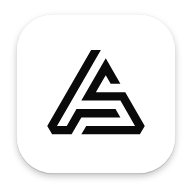
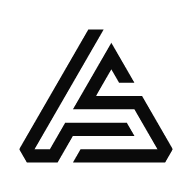
Changes from the private repository:
- Round only the corners of the Client's launcher icons
  - Name the file types the share target takes and label the ...

GitOrigin-RevId: 90955a155ec88d12d0a5c7318b795f9e3e04c768

Changed region(s): [[0.0625, 0.125, 0.9375, 0.9375]]

diff --git a/apps/client/src/app-icons.test.ts b/apps/client/src/app-icons.test.ts
@@ -67,20 +67,36 @@ function cornersAndCentre({ width, height, alphaAt }: Pixels) {
 
 describe('app icons', () => {
     // A desktop launcher (GNOME, Windows, macOS) shows a `purpose: any` icon as drawn, with no
-    // mask, so a full-bleed square shows as a square with sharp corners. These icons carry their
-    // own rounded tile on a transparent canvas instead.
+    // mask, so a full-bleed square shows as a square with sharp corners. These icons are the same
+    // full-bleed white tile with only its corners rounded off: they fill the canvas, so they sit at
+    // the same size as other apps' icons, and Android can still cut one to a circle without any
+    // edge or transparent margin showing inside it.
     const launcherIcons = manifest.icons.filter((icon) => (icon.purpose ?? 'any').split(' ').includes('any'))
 
     it('declares a 192px and a 512px launcher icon', () => {
         expect(launcherIcons.map((icon) => icon.sizes).sort()).toEqual(['192x192', '512x512'])
     })
 
-    it.each(launcherIcons.map((icon) => [icon.src, icon] as const))('%s is a rounded tile: clear corners, opaque middle', (_src, icon) => {
+    it.each(launcherIcons.map((icon) => [icon.src, icon] as const))('%s has clear corners and is opaque everywhere else', (_src, icon) => {
         const pixels = decodePng(fromStatic(icon.src.replace(/^\//, '')))
-        expect(`${pixels.width}x${pixels.height}`).toBe(icon.sizes)
+        const { width, height, alphaAt } = pixels
+        expect(`${width}x${height}`).toBe(icon.sizes)
         const { corners, centre } = cornersAndCentre(pixels)
         expect(corners).toEqual([0, 0, 0, 0])
         expect(centre).toBe(255)
+        // The tile reaches every edge: no margin, so the icon is not drawn smaller than its neighbours.
+        const midEdges = [alphaAt(width >> 1, 0), alphaAt(width >> 1, height - 1), alphaAt(0, height >> 1), alphaAt(width - 1, height >> 1)]
+        expect(midEdges).toEqual([255, 255, 255, 255])
+        // Every pixel of the inscribed circle is opaque, so a circular crop shows no edge at all.
+        const radius = width / 2
+        let transparentInCircle = 0
+        for (let y = 0; y < height; y++) {
+            for (let x = 0; x < width; x++) {
+                const inside = Math.hypot(x + 0.5 - radius, y + 0.5 - radius) < radius - 1
+                if (inside && alphaAt(x, y) !== 255) transparentInCircle++
+            }
+        }
+        expect(transparentInCircle).toBe(0)
     })
 
     // Android cuts a maskable icon to its own shape, and iOS rounds the apple-touch-icon itself and

diff --git a/apps/client/src/lib/document/view/QuickNoteBox.svelte b/apps/client/src/lib/document/view/QuickNoteBox.svelte
@@ -329,7 +329,7 @@
     </ul>
 
     {#if !readonly}
-        <div class="flex items-center gap-1.5 border-t border-(--gk-border-soft) px-1.5 py-1">
+        <div class="flex flex-wrap items-center gap-1.5 border-t border-(--gk-border-soft) px-1.5 py-1.5">
             <button
                 type="button"
                 onclick={link}
@@ -337,9 +337,10 @@
                 data-testid="{testid}-link"
                 aria-label="Link to a page"
                 title="Link to a page"
-                class="rounded-md px-2 py-1 font-mono text-sm font-semibold text-(--gk-text-default) hover:bg-(--gk-surface-2) hover:text-(--gk-text-strong) pointer-coarse:min-h-11 pointer-coarse:min-w-11"
+                class="inline-flex items-center gap-1.5 rounded-md border border-(--gk-border-strong) bg-(--gk-surface-1) px-2.5 py-1 text-sm font-medium text-(--gk-text-default) hover:bg-(--gk-surface-2) hover:text-(--gk-text-strong) pointer-coarse:min-h-11"
             >
-                [[ ]]
+                <span class="font-mono font-semibold" aria-hidden="true">[[ ]]</span>
+                Link
             </button>
             {#if onaddfiles}
                 <button
@@ -348,11 +349,12 @@
                     data-testid="{testid}-attach"
                     aria-label="Attach a file"
                     title="Attach a file"
-                    class="rounded-md px-2 py-1 text-(--gk-text-default) hover:bg-(--gk-surface-2) hover:text-(--gk-text-strong) pointer-coarse:min-h-11 pointer-coarse:min-w-11"
+                    class="inline-flex items-center gap-1.5 rounded-md border border-(--gk-border-strong) bg-(--gk-surface-1) px-2.5 py-1 text-sm font-medium text-(--gk-text-default) hover:bg-(--gk-surface-2) hover:text-(--gk-text-strong) pointer-coarse:min-h-11"
                 >
-                    <svg class="mx-auto size-4" viewBox="0 0 24 24" fill="none" stroke="currentColor" stroke-width="1.5" aria-hidden="true">
+                    <svg class="size-4 shrink-0" viewBox="0 0 24 24" fill="none" stroke="currentColor" stroke-width="1.5" aria-hidden="true">
                         <path stroke-linecap="round" stroke-linejoin="round" d="m18.375 12.739-7.693 7.693a4.5 4.5 0 0 1-6.364-6.364l10.94-10.94A3 3 0 1 1 19.5 7.372L8.552 18.32m.009-.01-.01.01m5.699-9.941-7.81 7.81a1.5 1.5 0 0 0 2.112 2.13" />
                     </svg>
+                    Attach
                 </button>
                 <input bind:this={picker} type="file" multiple hidden onchange={onPicked} data-testid="{testid}-picker" />
             {/if}

diff --git a/apps/client/src/lib/sync/share-names.ts b/apps/client/src/lib/sync/share-names.ts
@@ -22,7 +22,7 @@ import { openGraphCache } from './local-cache'
 export interface ShareNames {
     /** Every page, journal day and alias the graph's registry names, for wikilink completion. */
     concepts: ConceptCandidate[]
-    /** The concepts to offer under "File under", in the person's Favourites order. */
+    /** The concepts to offer under "Link to Favourite", in the person's Favourites order. */
     fileUnder: string[]
     /** The graph's default display size for a picture, as a document's upload would write it. */
     imageSize?: string

diff --git a/apps/client/src/lib/document/view/QuickNoteFileUnder.svelte b/apps/client/src/lib/document/view/QuickNoteFileUnder.svelte
@@ -24,7 +24,7 @@
 
 {#if choices.length > 0}
     <div data-testid={testid}>
-        <p id={labelId} class="mb-1.5 text-sm font-medium text-(--gk-text-muted)">File under</p>
+        <p id={labelId} class="mb-1.5 text-sm font-medium text-(--gk-text-muted)">Link to Favourite</p>
         <div role="group" aria-labelledby={labelId} class="-mx-1 flex gap-2 overflow-x-auto px-1 py-1">
             {#each choices as choice (choice)}
                 <button

diff --git a/CHANGELOG.md b/CHANGELOG.md
@@ -12,15 +12,19 @@ starts at 0.9.3.
 - **Quick notes take links, files and a place to go.** The box in Quick notes has a `[[ ]]` button
   that wraps the selected text in a wikilink or inserts an empty one, and typing inside `[[`
   lists your pages. A paperclip button attaches a photo, a PDF or any other file, and you can
-  paste or drop one. **File under** lists your favourite pages: pick one and the note moves to the
+  paste or drop one. **Link to Favourite** lists your favourite pages: pick one and the note moves to the
   journal nested under that page's link. Deleting a quick note deletes its file when nothing else
   uses it.
 - **Share a photo or a file to EtherPK.** The installed app on Android and ChromeOS takes files
   from the share sheet as well as text and links. The share page shows the picture or the file
-  name, and has the same link button and **File under** row. On a synced graph that is unlocked
+  name, and has the same link button and **Link to Favourite** row. On a synced graph that is unlocked
   on the device the file is saved on the device at once and uploaded after. If you leave before
   the upload ends, it is sent the next time EtherPK starts on that device. An app installed
   before this release takes files once the browser has refreshed it.
+- **Fixes.**
+  - The installed app's icon is full size again in desktop launchers, with slightly rounded
+    corners and no shadow, and shows no square edge when Android crops it to a circle. An app
+    installed before this keeps its old icon until it is installed again.
 
 ## 0.25.0 - 2026-11-12
 
